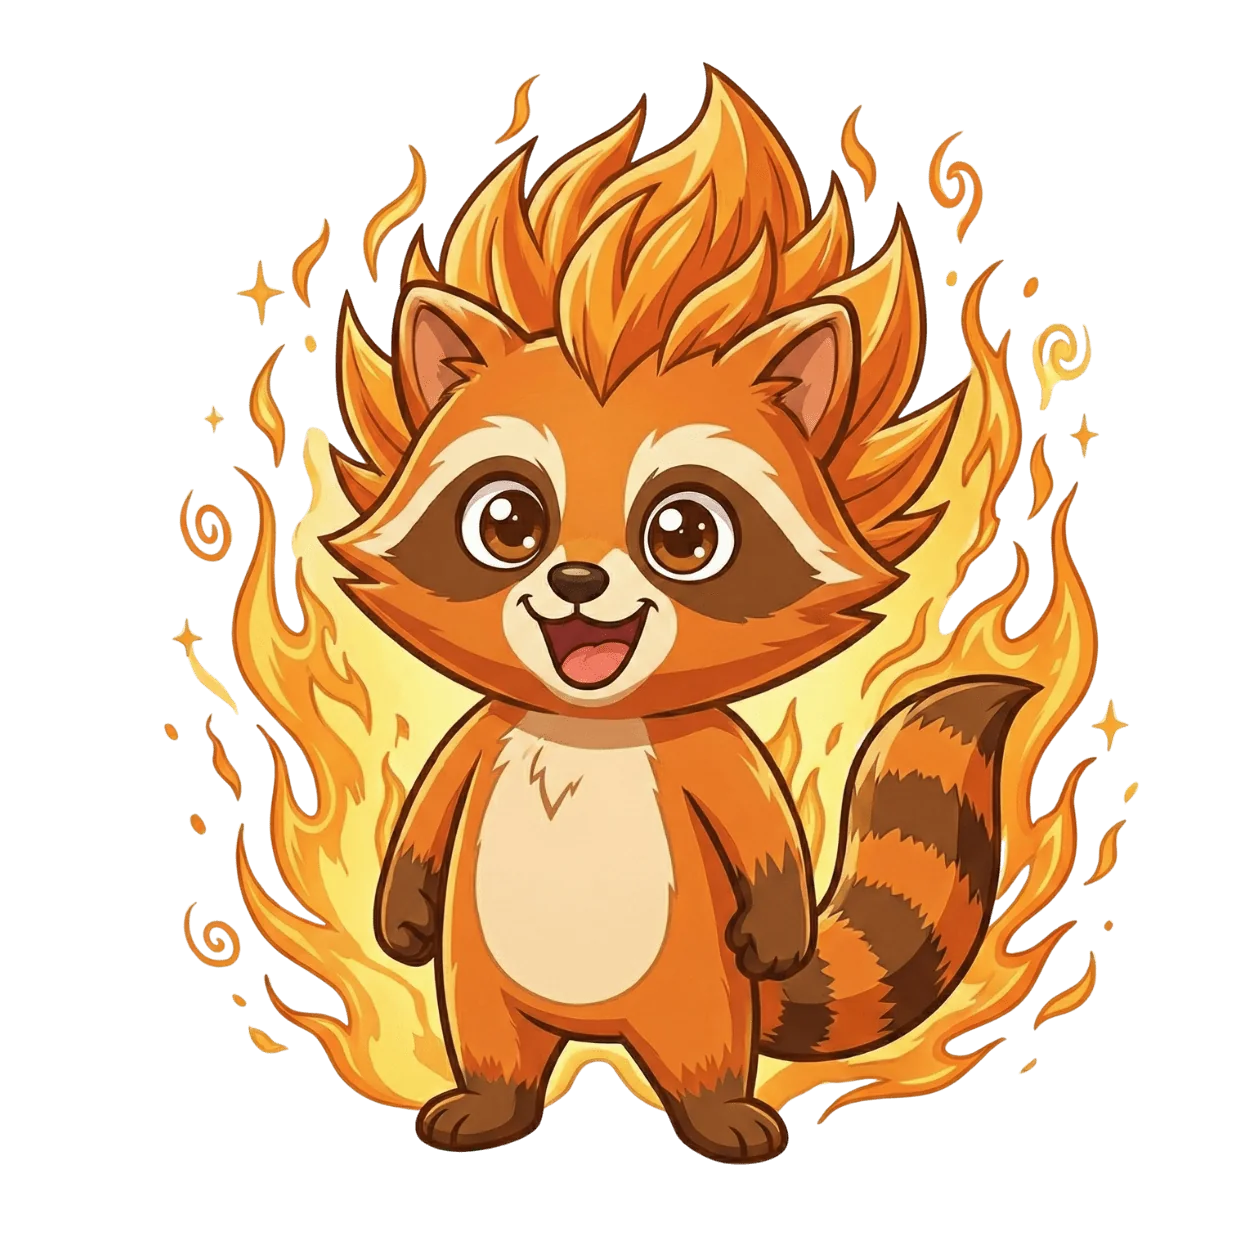
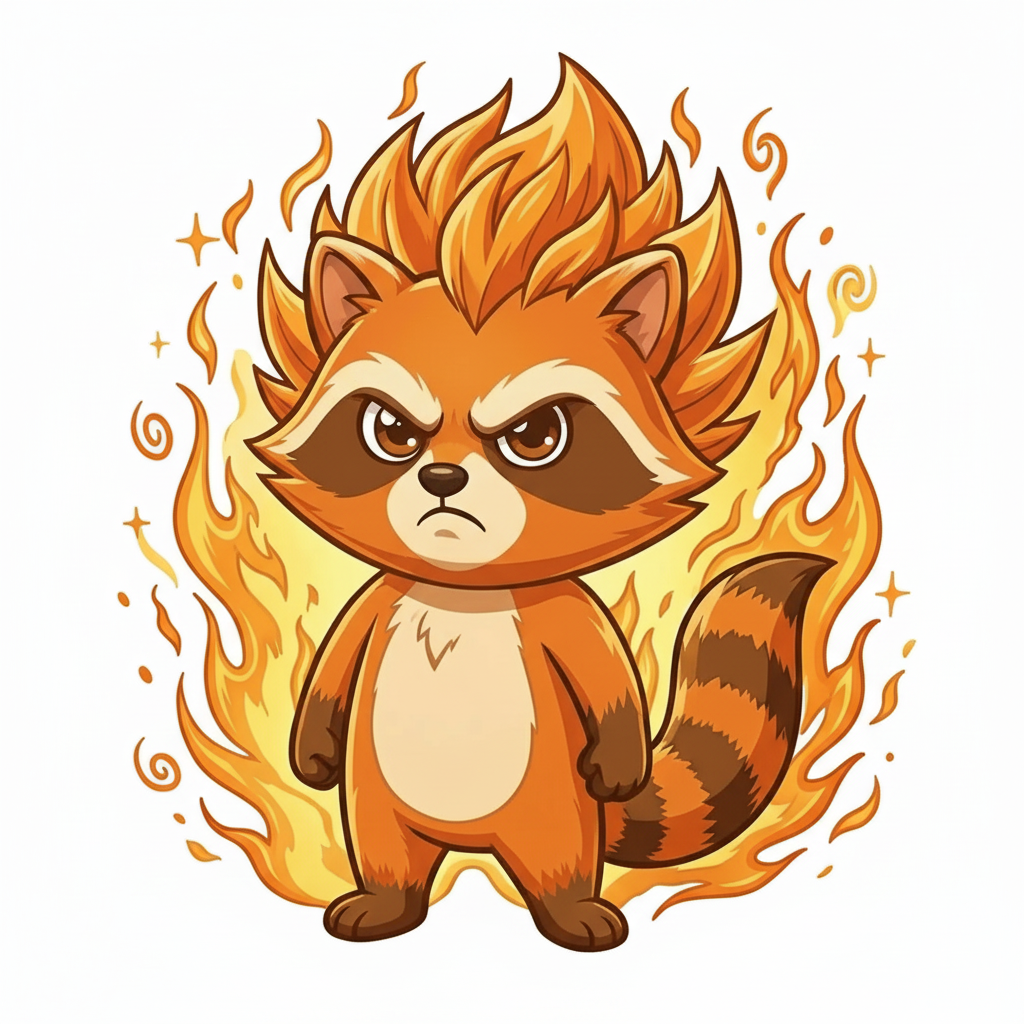
Changes

diff --git a/src/components/DailyStreakCelebrationDialog.tsx b/src/components/DailyStreakCelebrationDialog.tsx
@@ -44,12 +44,14 @@ export const DailyStreakCelebrationDialog = ({
   const previousStreak = newStreak - 1;
   const milestoneMessage = getMilestoneMessage(newStreak);
   const isSuperSaiyanMilestone = newStreak === 10;
+  const isSuperRemi = newStreak >= 10; // Show Super Remi 2 for 10+ streaks
 
-  // Select a random Remi image when dialog opens (for non-Super Saiyan milestones)
+  // Select a random Remi image when dialog opens (for non-Super Remi milestones)
   const remiImage = useMemo(() => {
-    if (isSuperSaiyanMilestone) return remiSuper1; // Start with Super 1 for transformation
+    if (isSuperSaiyanMilestone) return remiSuper1; // Start with Super 1 for transformation at exactly 10
+    if (isSuperRemi) return remiSuper2; // Use Super 2 for 10+ streaks (after transformation)
     return celebratingImages[Math.floor(Math.random() * celebratingImages.length)];
-  }, [open, isSuperSaiyanMilestone]);
+  }, [open, isSuperSaiyanMilestone, isSuperRemi]);
 
   useEffect(() => {
     if (open) {
@@ -174,7 +176,7 @@ export const DailyStreakCelebrationDialog = ({
               )}
             </motion.div>
 
-            {/* Remi Image - with transformation animation for Super Saiyan */}
+            {/* Remi Image - with transformation animation for Super Saiyan milestone, or Super Remi 2 for 10+ */}
             {isSuperSaiyanMilestone ? (
               <div className="relative flex-shrink-0">
                 {/* Energy aura behind Remi during/after transformation */}
@@ -219,6 +221,30 @@ export const DailyStreakCelebrationDialog = ({
                     className="w-40 h-auto max-h-44 object-contain relative z-10"
                   />
                 </AnimatePresence>
+              </div>
+            ) : isSuperRemi ? (
+              // For streaks > 10, show Super Remi 2 with golden aura (no transformation animation)
+              <div className="relative flex-shrink-0">
+                <motion.div
+                  animate={{ 
+                    scale: [1, 1.1, 1], 
+                    opacity: [0.4, 0.6, 0.4]
+                  }}
+                  transition={{ 
+                    duration: 1.5,
+                    repeat: Infinity,
+                    repeatType: "reverse"
+                  }}
+                  className="absolute inset-0 bg-gradient-to-t from-yellow-500/40 to-yellow-300/20 rounded-full blur-xl -m-4"
+                />
+                <motion.img
+                  src={remiSuper2}
+                  alt="Super Remi"
+                  initial={{ scale: 0, rotate: -5 }}
+                  animate={{ scale: 1, rotate: 0 }}
+                  transition={{ delay: 0.2, duration: 0.4, type: "spring" }}
+                  className="w-40 h-auto max-h-44 object-contain relative z-10"
+                />
               </div>
             ) : (
               <motion.div
